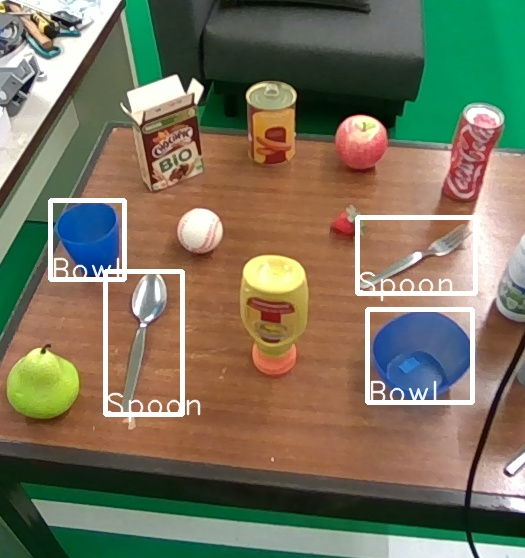
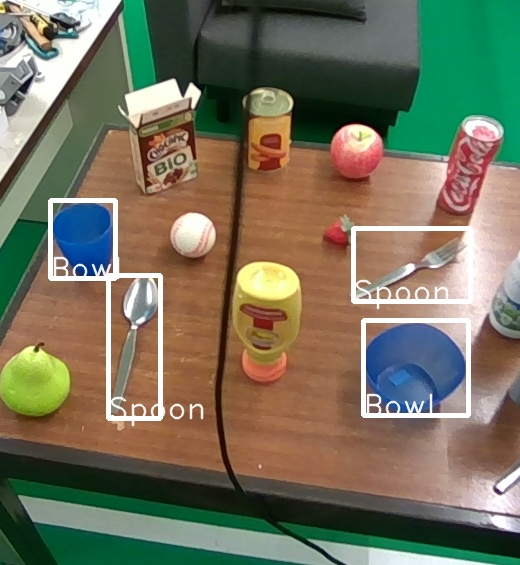
Added all publishable variables to detectedobject, some are still None but all are declared, added robot localization functions to yolo objects

diff --git a/src/charmie_yolo_objects/charmie_yolo_objects/yolo_objects.py b/src/charmie_yolo_objects/charmie_yolo_objects/yolo_objects.py
@@ -3,7 +3,9 @@ from ultralytics import YOLO
 import rclpy
 from rclpy.node import Node
 from example_interfaces.msg import Bool, String, Float32
+from geometry_msgs.msg import Point
 from sensor_msgs.msg import Image
+from nav_msgs.msg import Odometry
 from charmie_interfaces.msg import DetectedObject, Yolov8Objects, ListOfImages, ListOfStrings, PointCloudCoordinates, BoundingBox, BoundingBoxAndPoints
 from charmie_interfaces.srv import GetPointCloud
 from cv_bridge import CvBridge
@@ -12,7 +14,6 @@ import cvzone
 import json
 
 from pathlib import Path
-# import numpy as np
 
 import math
 import time
@@ -84,6 +85,10 @@ class Yolo_obj(Node):
         self.objects_publisher = self.create_publisher(Yolov8Objects, 'objects_detected', 10)
         self.objects_filtered_publisher = self.create_publisher(Yolov8Objects, 'objects_detected_filtered', 10)
         
+        # get robot_localisation
+        self.localisation_robot_subscriber = self.create_subscription(Odometry, "odom_a", self.odom_robot_callback, 10)
+
+
         ### Services (Clients) ###
         # Point Cloud
         ### self.point_cloud_client = self.create_client(GetPointCloud, "get_point_cloud")
@@ -92,6 +97,11 @@ class Yolo_obj(Node):
         ###     self.get_logger().warn("Waiting for Server Point Cloud...")
         
         ### Variables ###
+
+        # robot localization
+        self.robot_x = 0.0
+        self.robot_y = 0.0
+        self.robot_t = 0.0 # math.pi/2
 
         # to calculate the FPS
         self.prev_frame_time = 0 # used to record the time when we processed last frame
@@ -133,21 +143,14 @@ class Yolo_obj(Node):
         # depending on the filename selected, the class names change
         if objects_filename == 'vfinal.pt' or objects_filename == 'M_300epochs.pt' or objects_filename == "m_size_model_300_epochs_after_nandinho.pt":
             self.objects_classNames = self.lar_v_final_classname
-
-
         # elif objects_filename == 'serve_breakfast_v1.pt':
         #     self.objects_classNames = self.serve_breakfast_classname
         else:
             print('Something is wrong with your model name or directory. Please check if the variable filename fits the name of your model and if the loaded directory is the correct.')
             
-        # self.objects_classNames_dict = {}
-        # for item in self.objects_classNames:
-        #     self.objects_classNames_dict[item["name"]]=item["class"]
-        
         self.objects_classNames_dict = {item["name"]: item["class"] for item in self.objects_file}
         
-        print(self.objects_classNames_dict)
-
+        # print(self.objects_classNames_dict
 
 
     def get_minimum_object_confidence_callback(self, state: Float32):
@@ -236,6 +239,7 @@ class Yolo_obj(Node):
             new_pcloud = PointCloudCoordinates()
             self.post_receiving_pcloud(new_pcloud)
             
+
     def post_receiving_pcloud(self, new_pcloud):
 
         current_frame = self.br.imgmsg_to_cv2(self.head_rgb, "bgr8")
@@ -499,7 +503,6 @@ class Yolo_obj(Node):
 
     def add_object_to_detectedobject_msg(self, boxes_id, object_name, object_class):
 
-
         object_id = boxes_id.id
         if boxes_id.id == None:
             object_id = 0 
@@ -511,22 +514,44 @@ class Yolo_obj(Node):
         new_object.index = int(object_id)
         new_object.confidence = float(boxes_id.conf)
 
-        # geometry_msgs/Point position_relative
-        # geometry_msgs/Point position_absolute
+        # changes the axis of point cloud coordinates to fit with robot axis
+        object_rel_pos = Point()
+        object_rel_pos.x =  0.0 # -torso_localisation.y/1000 # still missing...
+        object_rel_pos.y =  0.0 # torso_localisation.x/1000  # still missing...
+        object_rel_pos.z =  0.0 # torso_localisation.z/1000  # still missing...
+        new_object.position_relative = object_rel_pos
+        
+        # calculate the absolute position according to the robot localisation
+        angle_person = math.atan2(object_rel_pos.x, object_rel_pos.y)
+        dist_person = math.sqrt(object_rel_pos.x**2 + object_rel_pos.y**2)
+
+        theta_aux = math.pi/2 - (angle_person - self.robot_t)
+
+        target_x = dist_person * math.cos(theta_aux) + self.robot_x
+        target_y = dist_person * math.sin(theta_aux) + self.robot_y
+
+        a_ref = (target_x, target_y)
+        # print("Rel:", (person_rel_pos.x, person_rel_pos.y), "Abs:", a_ref)
+
+        object_abs_pos = Point()
+        object_abs_pos.x = 0.0 # target_x                   # still missing...
+        object_abs_pos.y = 0.0 # target_y                   # still missing...
+        object_abs_pos.z = 0.0 # torso_localisation.z/1000  # still missing...
+        new_object.position_absolute = object_abs_pos
 
         new_object.box_top_left_x = int(boxes_id.xyxy[0][0])
         new_object.box_top_left_y = int(boxes_id.xyxy[0][1])
         new_object.box_width = int(boxes_id.xyxy[0][2]) - int(boxes_id.xyxy[0][0])
         new_object.box_height = int(boxes_id.xyxy[0][3]) - int(boxes_id.xyxy[0][1])
 
-        # string room_location
-        # string furniture_location
+        new_object.room_location = "None"      # still missing... (says on which room a detected object is)
+        new_object.furniture_location = "None" # still missing... (says if an object location is associated with some furniture, on a table, sofa, counter, ...)
 
-        # int32 box_center_x
-        # int32 box_center_y
+        new_object.box_center_x = new_object.box_top_left_x + new_object.box_width//2
+        new_object.box_center_y = new_object.box_top_left_y + new_object.box_height//2
 
-        # float32 orientation
-        # string camera
+        new_object.orientation = 0.0 # still missing... (says the object angle so the gripper can adjust to correctly pick up the object)
+        new_object.camera = "Head"   # still missing... (says which camera is being used)
 
         return new_object
 
@@ -781,6 +806,30 @@ class Yolo_obj(Node):
 
         print("----------")
         self.cropped_image_object_detected_publisher.publish(list_of_strings)
+    
+    
+    def odom_robot_callback(self, loc: Odometry):
+        self.odometry_msg_to_position(loc)
+
+
+    def odometry_msg_to_position(self, odom: Odometry):
+        
+        self.robot_x = odom.pose.pose.position.x
+        self.robot_y = odom.pose.pose.position.y
+
+        qx = odom.pose.pose.orientation.x
+        qy = odom.pose.pose.orientation.y
+        qz = odom.pose.pose.orientation.z
+        qw = odom.pose.pose.orientation.w
+
+        # yaw = math.atan2(2.0*(qy*qz + qw*qx), qw*qw - qx*qx - qy*qy + qz*qz)
+        # pitch = math.asin(-2.0*(qx*qz - qw*qy))
+        # roll = math.atan2(2.0*(qx*qy + qw*qz), qw*qw + qx*qx - qy*qy - qz*qz)
+        # print(yaw, pitch, roll)
+
+        self.robot_t = math.atan2(2.0*(qx*qy + qw*qz), qw*qw + qx*qx - qy*qy - qz*qz)
+        # print(self.robot_x, self.robot_y, self.robot_t)
+
         
 def main(args=None):
     rclpy.init(args=args)

diff --git a/src/charmie_debug/charmie_debug/debug_yolos.py b/src/charmie_debug/charmie_debug/debug_yolos.py
@@ -94,12 +94,22 @@ class TestNode(Node):
                     if object.box_top_left_y+object.box_height > y_max:
                         y_max = object.box_top_left_y+object.box_height
 
-
-
                     start_point = (object.box_top_left_x, object.box_top_left_y)
                     end_point = (object.box_top_left_x+object.box_width, object.box_top_left_y+object.box_height)
                     cv2.rectangle(current_frame_draw, start_point, end_point, (255,255,255) , 4) 
 
+                    cv2.circle(current_frame_draw, (object.box_center_x, object.box_center_y), 5, (255, 255, 255), -1)
+                    
+            
+            for object in self.detected_objects.objects:      
+                
+                if object.object_class == "Dishes":
+                
+                    if object.box_top_left_y < 30: # depending on the height of the box, so it is either inside or outside
+                        start_point_text = (object.box_top_left_x-2, object.box_top_left_y+25)
+                    else:
+                        start_point_text = (object.box_top_left_x-2, object.box_top_left_y-22)
+                        
                     # just to test for the "serve the breakfast" task...
                     aux_name = object.object_name
                     if object.object_name == "Fork" or object.object_name == "Knife":
@@ -107,33 +117,21 @@ class TestNode(Node):
                     elif object.object_name == "Plate" or object.object_name == "Cup":
                         aux_name = "Bowl"
 
-                    ### draws the name of the object
-                    current_frame_draw = cv2.putText(
-                        current_frame_draw,
-                        # f"{round(float(per.conf),2)}",
-                        f"{aux_name}",
-                        (start_point[0], end_point[1]),
-                        cv2.FONT_HERSHEY_DUPLEX,
-                        1,
-                        (255,255,255),
-                        1,
-                        cv2.LINE_AA
-                    ) 
-
-            print(current_frame_draw.shape)
-            print(y_min, y_max, x_min, x_max)
-            # cv2.rectangle(current_frame_draw, (x_min, y_min), (x_max, y_max), (255,255,255) , 4) 
+                    text_size, _ = cv2.getTextSize(f"{aux_name}", cv2.FONT_HERSHEY_DUPLEX, 1, 1)
+                    text_w, text_h = text_size
+                    cv2.rectangle(current_frame_draw, (start_point_text[0], start_point_text[1]), (start_point_text[0] + text_w, start_point_text[1] + text_h), (255,255,255), -1)
+                    cv2.putText(current_frame_draw, f"{aux_name}", (start_point_text[0], start_point_text[1]+text_h+1-1), cv2.FONT_HERSHEY_DUPLEX, 1, (0, 0, 0), 1, cv2.LINE_AA)
 
         if corr_image:
             # current_frame_draw = current_frame_draw[x_min:y_min, x_max,y_max]
             # img = current_frame_draw[y_min:y_max, x_min,x_max]
             cv2.imshow("c", current_frame_draw[max(y_min-thresh_v,0):min(y_max+thresh_v,720), max(x_min-thresh_h,0):min(x_max+thresh_h,1280)])
+            cv2.waitKey(1)
+        # cv2.imshow("Yolo Objects TR Detection", current_frame_draw)
+        # cv2.waitKey(10)
 
-        cv2.imshow("Yolo Objects TR Detection", current_frame_draw)
-        cv2.waitKey(10)
-
-        cv2.imwrite("object_detected_test4.jpg", current_frame_draw[max(y_min-thresh_v,0):min(y_max+thresh_v,720), max(x_min-thresh_h,0):min(x_max+thresh_h,1280)]) 
-        cv2.waitKey(10)
+        # cv2.imwrite("object_detected_test4.jpg", current_frame_draw[max(y_min-thresh_v,0):min(y_max+thresh_v,720), max(x_min-thresh_h,0):min(x_max+thresh_h,1280)]) 
+        # cv2.waitKey(10)
 
     #### SPEECH SERVER FUNCTIONS #####
     def call_neck_track_person_server(self, person, body_part="Head", wait_for_end_of=True):
